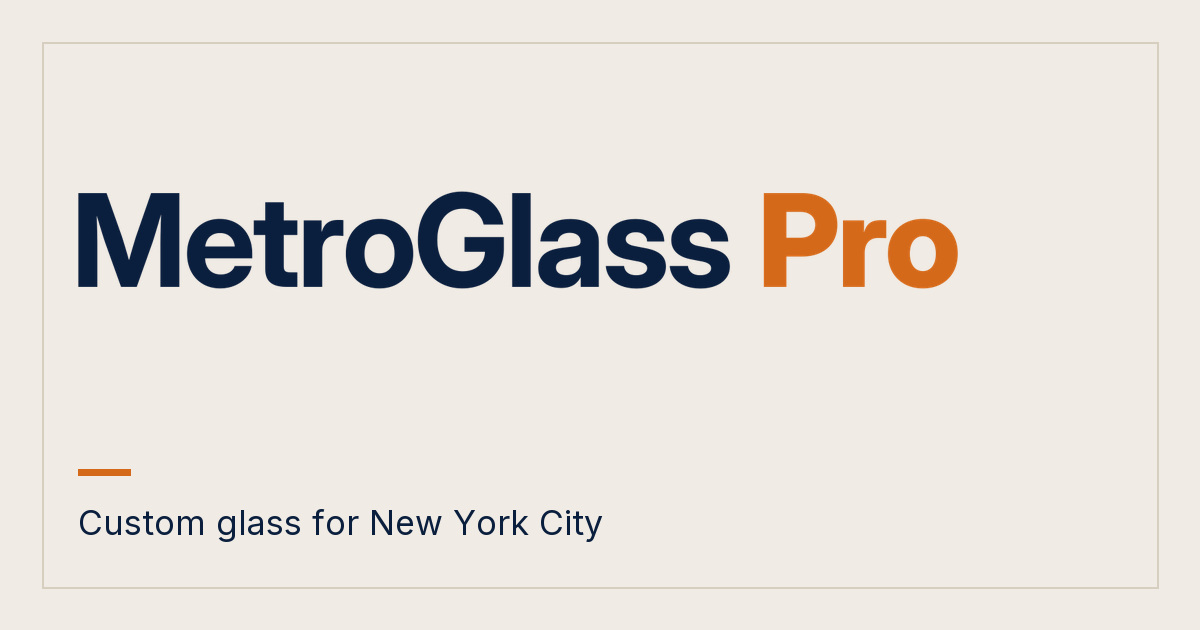
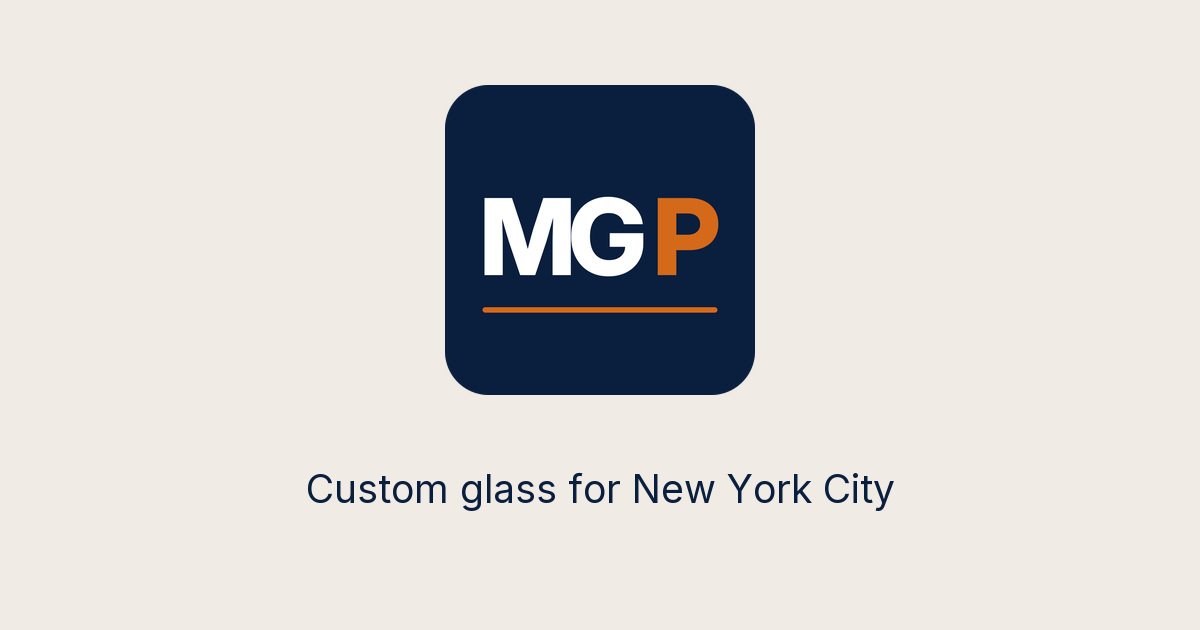
Use MGP mark instead of full wordmark on the site (#17)

diff --git a/components/Header.tsx b/components/Header.tsx
@@ -26,7 +26,7 @@ export default function Header() {
     <header className={`sticky top-0 z-50 ${scrolled ? 'glass shadow-sm' : 'bg-cream/95'}`}>
       <nav aria-label="Main navigation" className="max-w-7xl mx-auto px-6 sm:px-10 flex items-center justify-between gap-5 h-[70px]">
         <Link href="/" className="shrink-0" aria-label="MetroGlass Pro home">
-          <Image src="/assets/metroglass-pro-wordmark.svg" alt="MetroGlass Pro" width={185} height={55} priority className="w-[165px] sm:w-[185px] h-auto" />
+          <Image src="/assets/metroglass-pro-square.svg" alt="MGP" width={52} height={52} priority className="w-12 sm:w-[52px] h-auto" />
         </Link>
         <ul className="hidden lg:flex items-center gap-6 text-sm text-charcoal/80">
           <li>

diff --git a/components/Footer.tsx b/components/Footer.tsx
@@ -30,7 +30,7 @@ export default function Footer() {
           {/* Brand */}
           <div className="sm:col-span-2 lg:col-span-1">
             <Link href="/" className="inline-flex items-center mb-4" aria-label="MetroGlass Pro home">
-              <Image src="/assets/metroglass-pro-wordmark.svg" alt="MetroGlass Pro" width={180} height={53} className="w-[180px] h-auto" />
+              <Image src="/assets/metroglass-pro-square.svg" alt="MGP" width={64} height={64} className="w-16 h-16" />
             </Link>
             <p className="text-charcoal/60 text-[13px] leading-relaxed max-w-xs">Shower doors, glazing, railings, mirrors, partitions, and glass repair across NYC. Direct estimates, careful installation, and building coordination.</p>
           </div>
